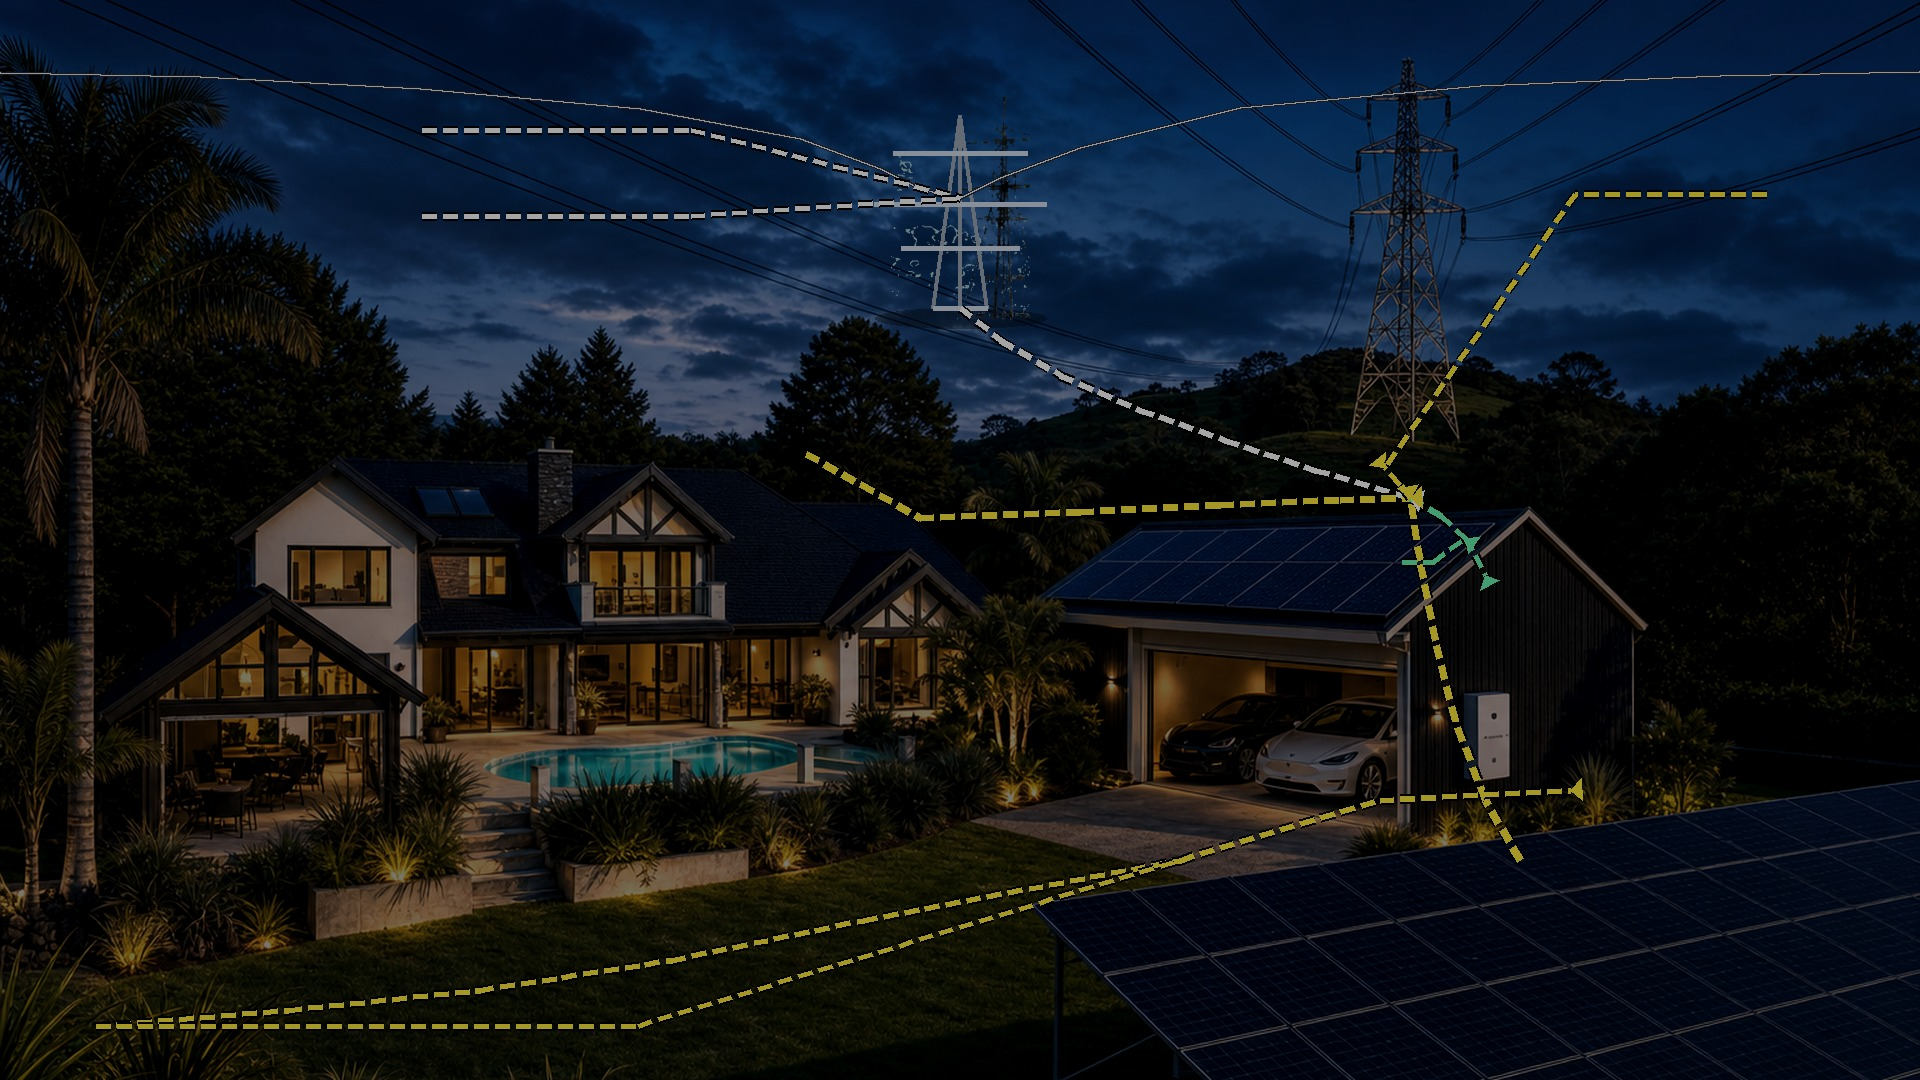
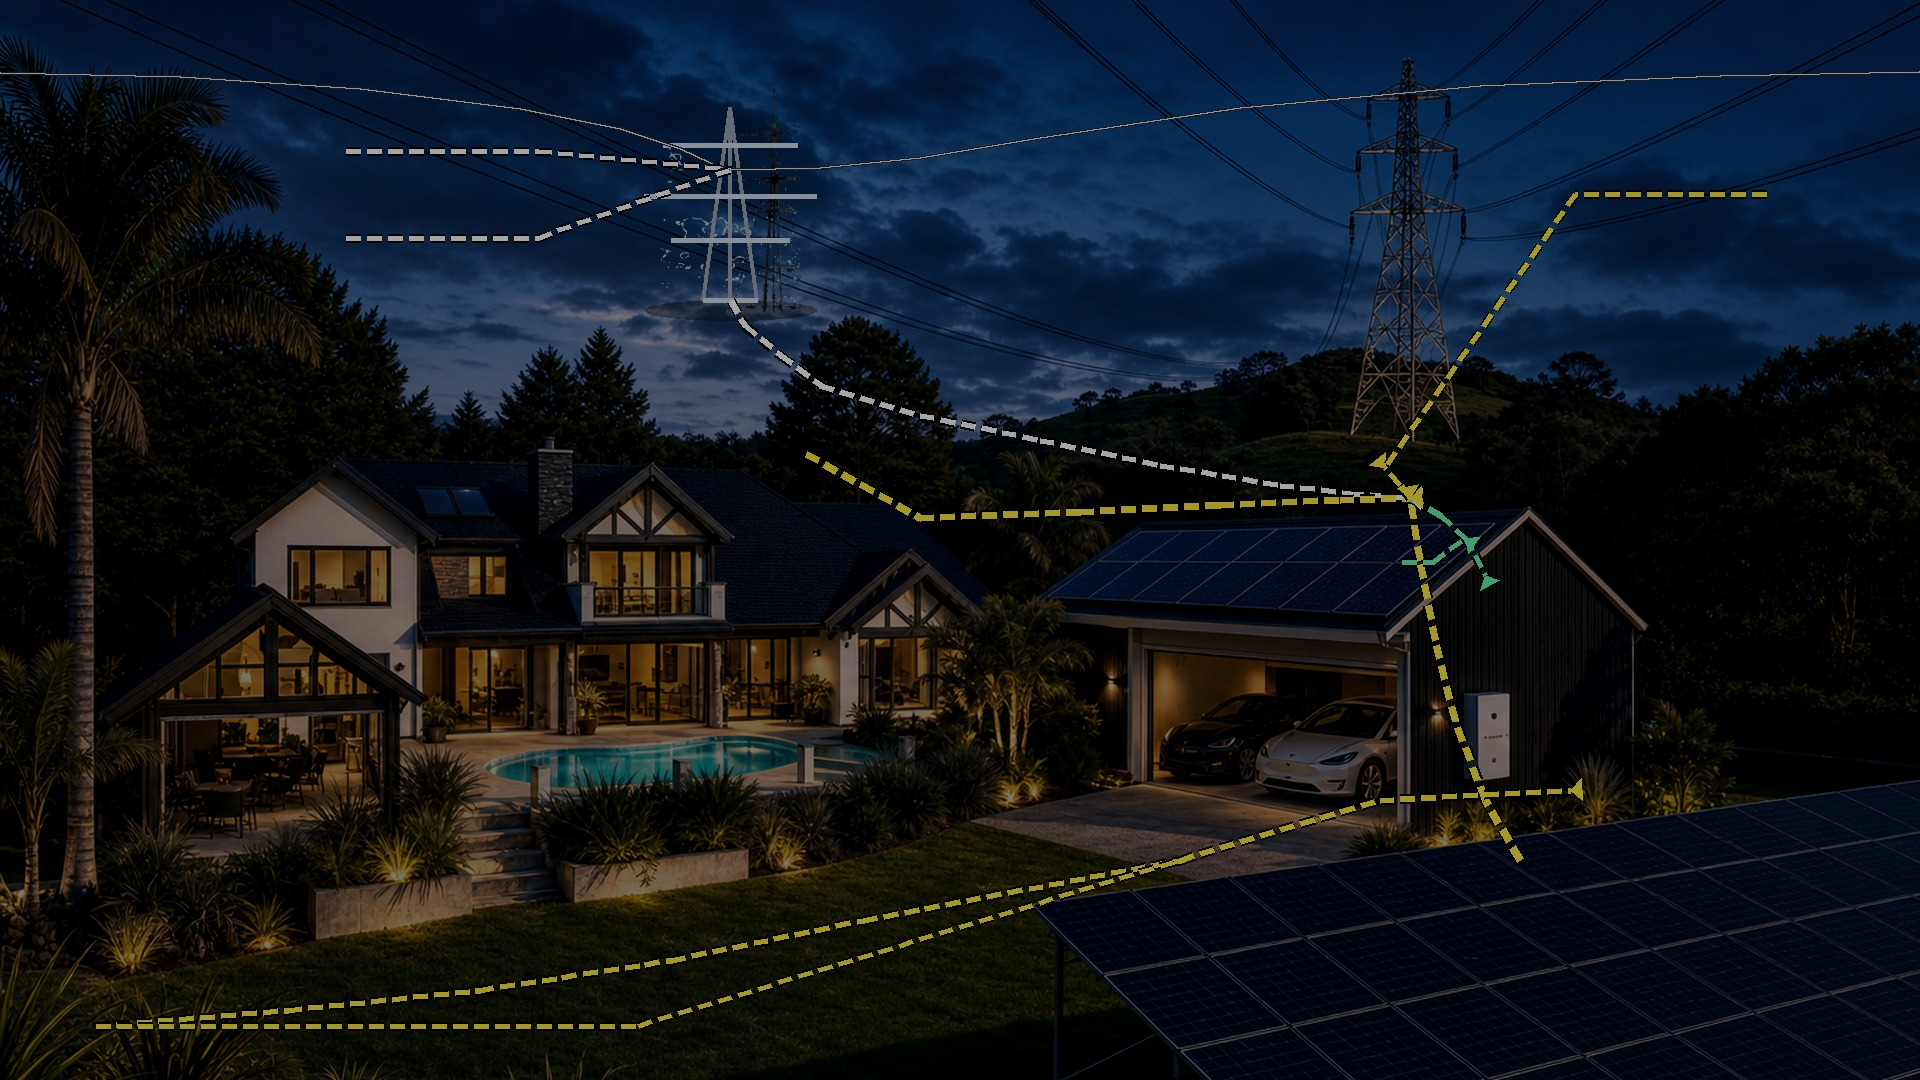
Move pylon to hill above house and retarget grid flow lines.

diff --git a/home-assistant/solar-dashboard/scripts/build_v4_backgrounds.py b/home-assistant/solar-dashboard/scripts/build_v4_backgrounds.py
@@ -15,14 +15,14 @@ PYLON_REF = ROOT / "www" / "solar-dashboard" / "assets" / "pylon-reference.png"
 OUT = ROOT / "www" / "solar-dashboard" / "backgrounds" / "v4"
 SIZE = (1920, 1080)
 
-# Hill crest (user red arrow) — lattice tower on distant hill
-PYLON_CX = 960
-PYLON_BASE_Y = 308
+# Hill crest (user red arrow) — lattice tower on distant hill above house (center-left)
+PYLON_CX = 730
+PYLON_BASE_Y = 300
 PYLON_WIDTH_PX = 168
 PYLON_MAX_HEIGHT_PX = 300
 
 SITE = {
-    "pylon": (PYLON_CX, 198),
+    "pylon": (PYLON_CX, 170),
     "pylon_base": (PYLON_CX, PYLON_BASE_Y),
     "inverter": (1410, 498),
     "battery_wall": (1385, 468),
@@ -33,8 +33,8 @@ SITE = {
 
 # Pixel stubs aligned to Serpo-style card positions in solar_dashboard.yaml
 CARD_STUBS = {
-    "grid": ((422, 130), "pylon"),
-    "grid_details": ((422, 216), "pylon"),
+    "grid": ((346, 151), "pylon"),
+    "grid_details": ((346, 238), "pylon"),
     "home": (SITE["house_tie"], "house_tie"),
     "battery": ((1766, 194), "battery_wall"),
     "garage": ((1402, 562), "ev_charger"),
@@ -62,11 +62,14 @@ ROUTES = {
     ],
     "grid_pylon_to_inverter": [
         SITE["pylon_base"],
-        (1000, 340),
-        (1060, 375),
-        (1140, 410),
-        (1225, 440),
-        (1315, 470),
+        (745, 325),
+        (780, 355),
+        (820, 385),
+        (920, 415),
+        (1040, 440),
+        (1160, 465),
+        (1280, 485),
+        (1350, 493),
         SITE["inverter"],
     ],
     "house_to_inverter": [
@@ -85,12 +88,12 @@ ROUTES = {
 HV_LINES = {
     "from_left": [
         (0, 72),
-        (200, 76),
-        (420, 88),
-        (640, 108),
-        (800, 138),
-        (880, 168),
-        (920, 188),
+        (180, 76),
+        (360, 88),
+        (520, 108),
+        (620, 128),
+        (680, 148),
+        (710, 162),
         SITE["pylon"],
     ],
     "from_right": [
@@ -98,8 +101,9 @@ HV_LINES = {
         (1720, 76),
         (1480, 86),
         (1240, 108),
-        (1080, 148),
-        (1000, 178),
+        (1040, 138),
+        (920, 158),
+        (820, 168),
         SITE["pylon"],
     ],
 }
